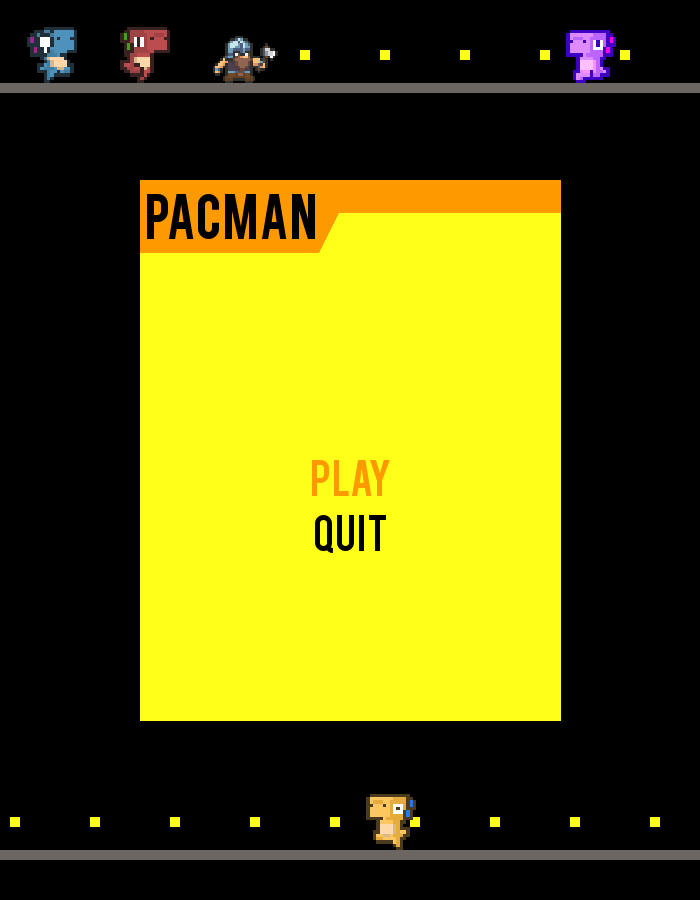
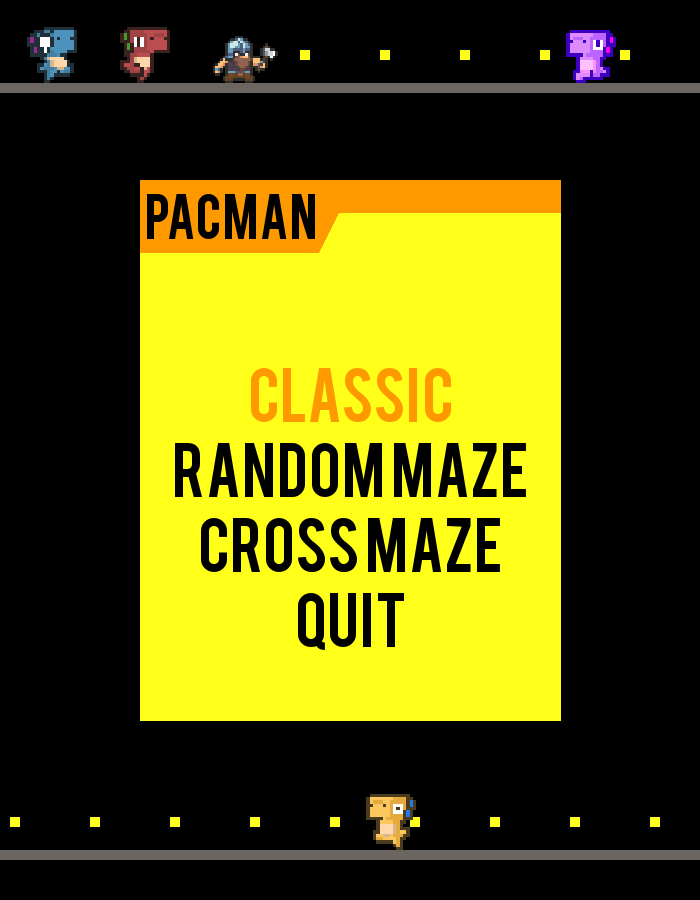
Readme update

Changed region(s): [[0.24, 0.4044, 0.75, 0.7156]]

diff --git a/README.md b/README.md
@@ -12,7 +12,8 @@ Libraries used in this project:
 
 ### How to run
 1. Run game.py
-2. In the future commits .exe release will be published.
+2. Chose one of the modes: Classic, Random Maze, Block Maze
+3. In the future commits .exe release will be published.
 
 ## Contributors
 
@@ -23,14 +24,25 @@ Libraries used in this project:
 
 <p align="center">
   <img src="https://github.com/olliekrk/pacman-game/blob/master/images/game.png?raw=true" alt="Pacman game screen"/>
+  <text>Classic game mode</text>
 </p>
+
+
+<p align="center">
+  <img src="https://github.com/olliekrk/pacman-game/blob/master/images/block_play.png?raw=true" alt="Pacman game screen"/>
+  <text>Random block maze game mode</text>
+</p>
+
 
 <p align="center">
   <img src="https://github.com/olliekrk/pacman-game/blob/master/images/killing_mode.png?raw=true" alt="Pacman alternative"/>
+  <text>Pacman in killing mode</text>
 </p>
+
 
 <p align="center">
   <img src="https://github.com/olliekrk/pacman-game/blob/master/images/game_over.png?raw=true" alt="Game over screen"/>
+  <text>Game over screen</text>
 </p>
 
 ## TODO
@@ -38,6 +50,8 @@ Libraries used in this project:
 * ~~displaying game statistics like: lives left, points acquired, game time, etc~~
 * ~~events screens (delays, info) for events like: game over, next level, life loss, big dot eaten, etc~~
 * ~~**board layout generator**~~
+
+Optionally:
 * background music + events sounds (pygame.mixer)
 * alternative controls by mouse buttons
-* _?multiplayer?_
+* multiplayer
